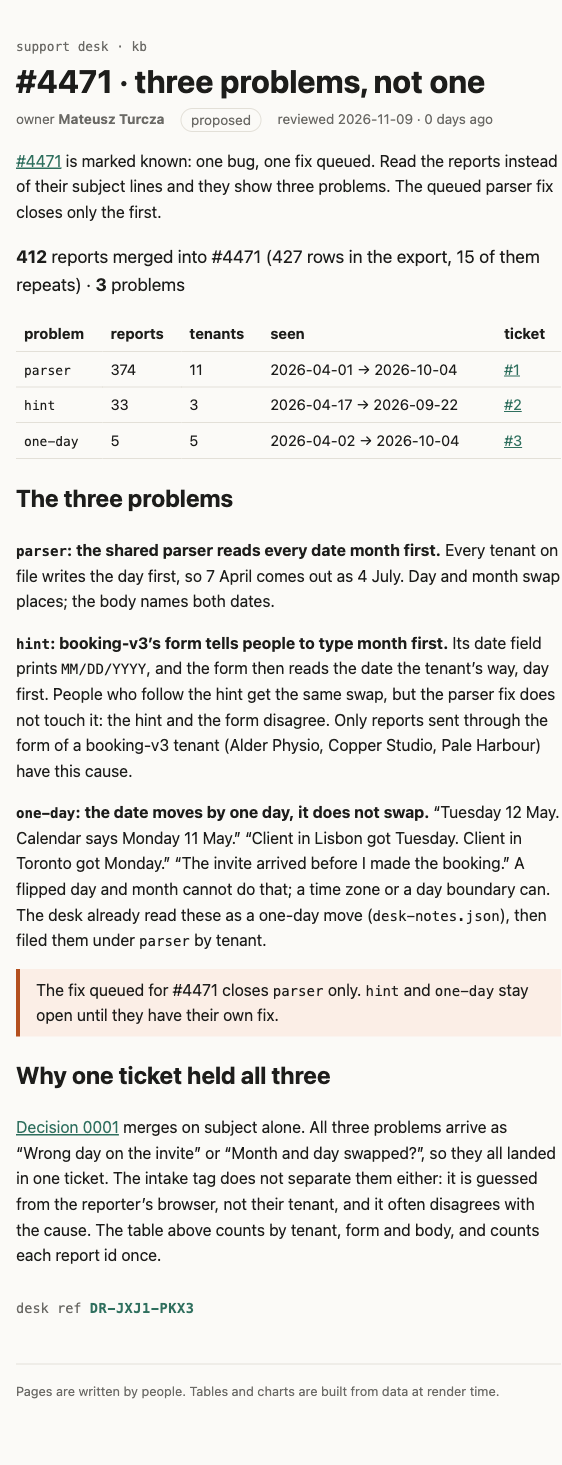
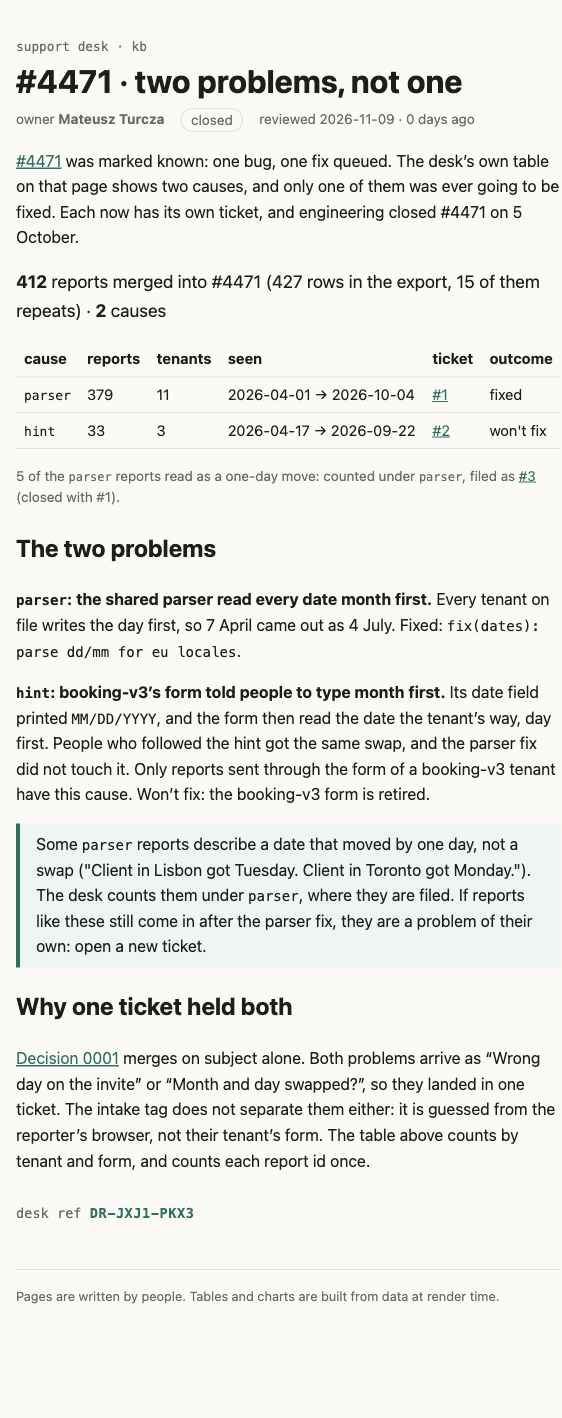
docs: Show #4471 closed with each ticket's outcome
Engineering closed #4471 on 5 October: parser fixed, hint won't fix
(booking-v3 form retired). The page now counts the desk's way, with
groupByCause(): parser 379, hint 33, the 5 one-day moves counted
under parser and footnoted. Drops problemOf() from causes.ts, which
nothing uses any more.

diff --git a/rendered/kb-incidents-4471-problems.html b/rendered/kb-incidents-4471-problems.html
@@ -17,28 +17,26 @@
 		
 		
 		
-		<!--e2jw2j--><!----><title>#4471 · three problems, not one · support kb</title>
+		<!--e2jw2j--><!----><title>#4471 · two problems, not one · support kb</title>
 		<style>:root{--bg:#fbfaf7;--fg:#1d1d1b;--muted:#6b6a66;--line:#e3e0d8;--accent:#2f6f5e;--warn:#b4501f;--warn-bg:#fbeee6;--note-bg:#eef5f2;--mono:ui-monospace, "Cascadia Code", Menlo, monospace}@media (prefers-color-scheme:dark){:root{--bg:#171716;--fg:#ecebe6;--muted:#9c9a93;--line:#34332f;--accent:#6fbfa6;--warn:#f0905d;--warn-bg:#3a2418;--note-bg:#1d2c27}}body{background:var(--bg);color:var(--fg);margin:0;font:16px/1.6 system-ui,sans-serif}.kb table{border-collapse:collapse;width:100%;margin:1rem 0;font-size:.92rem}.kb th,.kb td{border-bottom:1px solid var(--line);text-align:left;padding:.35rem .5rem}.kb code{font-family:var(--mono);font-size:.88em}.kb a{color:var(--accent)}.kb.svelte-e2jw2j{max-width:760px;margin:0 auto;padding:2rem 16px 4rem}.crumb.svelte-e2jw2j{font:.8rem var(--mono);color:var(--muted);text-decoration:none}h1.svelte-e2jw2j{margin:.25rem 0 .5rem;line-height:1.2}.meta.svelte-e2jw2j{color:var(--muted);flex-wrap:wrap;gap:.5rem 1rem;margin:0;font-size:.85rem;display:flex}.status.svelte-e2jw2j{border:1px solid var(--line);border-radius:99px;padding:0 .6rem}.stale.svelte-e2jw2j{color:var(--warn);font-weight:600}.banner.svelte-e2jw2j{background:var(--warn-bg);color:var(--warn);border-radius:6px;padding:.6rem 1rem}footer.svelte-e2jw2j{color:var(--muted);border-top:1px solid var(--line);margin-top:3rem;padding-top:1rem;font-size:.8rem}
 </style>
 		<style>aside.svelte-17bri61{border-left:4px solid var(--accent);background:var(--note-bg);margin:1rem 0;padding:.5rem 1rem}aside.warn.svelte-17bri61{border-color:var(--warn);background:var(--warn-bg)}
 </style>
-		<style>.sum.svelte-1op6c6{font-size:1.1rem}.stamp.svelte-1280m42{font:.85rem var(--mono);color:var(--muted);margin:2rem 0 0}.stamp.svelte-1280m42 b:where(.svelte-1280m42){color:var(--accent);letter-spacing:.04em}.missing.svelte-1280m42{color:var(--warn)}
+		<style>.sum.svelte-1op6c6{font-size:1.1rem}.note.svelte-1op6c6{color:var(--muted);font-size:.85em}.stamp.svelte-1280m42{font:.85rem var(--mono);color:var(--muted);margin:2rem 0 0}.stamp.svelte-1280m42 b:where(.svelte-1280m42){color:var(--accent);letter-spacing:.04em}.missing.svelte-1280m42{color:var(--warn)}
 </style>
   </head>
   <body>
-    <div><!--[--><!--[--><!--[0--><!--[--><!--[--><!--[-1--><!--[--><div class="kb svelte-e2jw2j"><header><a class="crumb svelte-e2jw2j" href="/kb">support desk · kb</a> <h1 class="svelte-e2jw2j">#4471 · three problems, not one</h1> <p class="meta svelte-e2jw2j"><span>owner <b>Mateusz Turcza</b></span> <span class="status proposed svelte-e2jw2j">proposed</span> <span class="svelte-e2jw2j">reviewed 2026-11-09 · 0 days ago</span></p></header> <!--[-1--><!--]--> <main><p><a href="/kb/incidents/4471">#4471</a> is marked known: one bug, one fix queued. Read the reports instead
-of their subject lines and they show three problems. The queued parser fix closes only the first.</p> <p class="sum svelte-1op6c6"><strong>412</strong> reports merged into #4471 (427 rows in the export, 15 of them repeats) · <strong>3</strong> problems</p> <table><thead><tr><th>problem</th><th>reports</th><th>tenants</th><th>seen</th><th>ticket</th></tr></thead><tbody><!--[--><tr><td><code>parser</code></td><td>374</td><td>11</td><td>2026-04-01 → 2026-10-04</td><td><!--[0--><a href="https://github.com/xemlock/mega-s01e03-what-it-shows/issues/1">#1</a><!--]--></td></tr><tr><td><code>hint</code></td><td>33</td><td>3</td><td>2026-04-17 → 2026-09-22</td><td><!--[0--><a href="https://github.com/xemlock/mega-s01e03-what-it-shows/issues/2">#2</a><!--]--></td></tr><tr><td><code>one-day</code></td><td>5</td><td>5</td><td>2026-04-02 → 2026-10-04</td><td><!--[0--><a href="https://github.com/xemlock/mega-s01e03-what-it-shows/issues/3">#3</a><!--]--></td></tr><!--]--></tbody></table><!----> <h2>The three problems</h2> <p><strong><code>parser</code>: the shared parser reads every date month first.</strong> Every tenant on file writes the
-day first, so 7 April comes out as 4 July. Day and month swap places; the body names both dates.</p> <p><strong><code>hint</code>: booking-v3’s form tells people to type month first.</strong> Its date field prints <code>MM/DD/YYYY</code>, and the form then reads the date the tenant’s way, day first. People who follow the
-hint get the same swap, but the parser fix does not touch it: the hint and the form disagree.
-Only reports sent through the form of a booking-v3 tenant (Alder Physio, Copper Studio, Pale
-Harbour) have this cause.</p> <p><strong><code>one-day</code>: the date moves by one day, it does not swap.</strong> “Tuesday 12 May. Calendar says
-Monday 11 May.” “Client in Lisbon got Tuesday. Client in Toronto got Monday.” “The invite arrived
-before I made the booking.” A flipped day and month cannot do that; a time zone or a day boundary
-can. The desk already read these as a one-day move (<code>desk-notes.json</code>), then filed them under <code>parser</code> by tenant.</p> <aside class="warn svelte-17bri61"><!---->The fix queued for #4471 closes <code>parser</code> only. <code>hint</code> and <code>one-day</code> stay open until they have their own fix.<!----></aside><!----> <h2>Why one ticket held all three</h2> <p><a href="/kb/decisions/0001-dedupe-by-subject">Decision 0001</a> merges on subject alone. All three
-problems arrive as “Wrong day on the invite” or “Month and day swapped?”, so they all landed in one
-ticket. The intake tag does not separate them either: it is guessed from the reporter’s browser,
-not their tenant, and it often disagrees with the cause. The table above counts by tenant, form and
-body, and counts each report id once.</p> <!--[0--><p class="stamp svelte-1280m42">desk ref <b class="svelte-1280m42">DR-JXJ1-PKX3</b></p><!--]--><!----><!----></main> <footer class="svelte-e2jw2j">Pages are written by people. Tables and charts are built from data at render time.</footer></div><!--]--><!--]--><!--]--><!----><!--]--><!--]--><!--]--><!----> <!--[-1--><!--]--><!--]-->
+    <div><!--[--><!--[--><!--[0--><!--[--><!--[--><!--[-1--><!--[--><div class="kb svelte-e2jw2j"><header><a class="crumb svelte-e2jw2j" href="/kb">support desk · kb</a> <h1 class="svelte-e2jw2j">#4471 · two problems, not one</h1> <p class="meta svelte-e2jw2j"><span>owner <b>Mateusz Turcza</b></span> <span class="status closed svelte-e2jw2j">closed</span> <span class="svelte-e2jw2j">reviewed 2026-11-09 · 0 days ago</span></p></header> <!--[-1--><!--]--> <main><p><a href="/kb/incidents/4471">#4471</a> was marked known: one bug, one fix queued. The desk’s own table on
+that page shows two causes, and only one of them was ever going to be fixed. Each now has its
+own ticket, and engineering closed #4471 on 5 October.</p> <p class="sum svelte-1op6c6"><strong>412</strong> reports merged into #4471 (427 rows in the export, 15 of them repeats) · <strong>2</strong> causes</p> <table><thead><tr><th>cause</th><th>reports</th><th>tenants</th><th>seen</th><th>ticket</th><th>outcome</th></tr></thead><tbody><!--[--><tr><td><code>parser</code></td><td>379</td><td>11</td><td>2026-04-01 → 2026-10-04</td><td><!--[0--><a href="https://github.com/xemlock/mega-s01e03-what-it-shows/issues/1">#1</a><!--]--></td><td>fixed</td></tr><tr><td><code>hint</code></td><td>33</td><td>3</td><td>2026-04-17 → 2026-09-22</td><td><!--[0--><a href="https://github.com/xemlock/mega-s01e03-what-it-shows/issues/2">#2</a><!--]--></td><td>won't fix</td></tr><!--]--></tbody></table> <!--[--><!--[0--><p class="note svelte-1op6c6">5 of the <code>parser</code> reports read as a one-day move: counted under <code>parser</code>, filed <!--[0-->as <a href="https://github.com/xemlock/mega-s01e03-what-it-shows/issues/3">#3</a> (closed with #1)<!--]-->.</p><!--]--><!--[-1--><!--]--><!--]--><!----> <h2>The two problems</h2> <p><strong><code>parser</code>: the shared parser read every date month first.</strong> Every tenant on file writes the
+day first, so 7 April came out as 4 July. Fixed: <code>fix(dates): parse dd/mm for eu locales</code>.</p> <p><strong><code>hint</code>: booking-v3’s form told people to type month first.</strong> Its date field printed <code>MM/DD/YYYY</code>, and the form then read the date the tenant’s way, day first. People who followed
+the hint got the same swap, and the parser fix did not touch it. Only reports sent through the
+form of a booking-v3 tenant have this cause. Won’t fix: the booking-v3 form is retired.</p> <aside class="note svelte-17bri61"><!---->Some <code>parser</code> reports describe a date that moved by one day, not a swap ("Client in
+Lisbon got Tuesday. Client in Toronto got Monday."). The desk counts them under <code>parser</code>, where they are filed. If reports like these still come in after the parser
+fix, they are a problem of their own: open a new ticket.<!----></aside><!----> <h2>Why one ticket held both</h2> <p><a href="/kb/decisions/0001-dedupe-by-subject">Decision 0001</a> merges on subject alone. Both problems
+arrive as “Wrong day on the invite” or “Month and day swapped?”, so they landed in one ticket.
+The intake tag does not separate them either: it is guessed from the reporter’s browser, not
+their tenant’s form. The table above counts by tenant and form, and counts each report id once.</p> <!--[0--><p class="stamp svelte-1280m42">desk ref <b class="svelte-1280m42">DR-JXJ1-PKX3</b></p><!--]--><!----><!----></main> <footer class="svelte-e2jw2j">Pages are written by people. Tables and charts are built from data at render time.</footer></div><!--]--><!--]--><!--]--><!----><!--]--><!--]--><!--]--><!----> <!--[-1--><!--]--><!--]-->
 			
 			
 		</div>

diff --git a/src/lib/kb/ProblemTable.svelte b/src/lib/kb/ProblemTable.svelte
@@ -1,43 +1,52 @@
 <script lang="ts">
   import reports from '#lib/data/reports-4471.json';
   import notes from '#lib/data/desk-notes.json';
-  import { problemOf, uniqueById, type Problem, type Report } from '#lib/kb/causes';
+  import { groupByCause, readAs, uniqueById, type Cause, type Report } from '#lib/kb/causes';
   import { tenantOf } from '#lib/kb/locales';
 
-  let { ticket, issues }: { ticket: number; issues: Partial<Record<Problem, string>> } = $props();
+  type Ticket = { url: string; outcome: string };
+  let { ticket, tickets, oneDay }: { ticket: number; tickets: Partial<Record<Cause, Ticket>>; oneDay?: Ticket } = $props();
 
-  const rows = $derived(uniqueById(reports as Report[]).length);
-  const merged = $derived(uniqueById(reports as Report[]).filter((r) => r.mergedInto === ticket));
-  const groups = $derived(
-    Object.entries(Object.groupBy(merged, (r) => problemOf(r, tenantOf(r), notes.oneDayMove)))
-      .map(([problem, rs]) => {
-        const days = rs!.map((r) => r.receivedAt.slice(0, 10)).sort();
-        return { problem: problem as Problem, count: rs!.length, tenants: new Set(rs!.map((r) => r.tenant)).size, first: days[0], last: days.at(-1) };
-      })
-      .sort((a, b) => b.count - a.count),
-  );
+  const all = reports as Report[];
+  const merged = $derived(uniqueById(all).filter((r) => r.mergedInto === ticket));
+  // Counted the desk's way: by tenant and form, a report the desk read differently stays where it is filed.
+  const groups = $derived(groupByCause(merged, tenantOf));
+  const num = (url: string) => url.replace(/^.*\/issues\//, '#');
 </script>
 
 <p class="sum">
-  <strong>{merged.length}</strong> reports merged into #{ticket} ({(reports as Report[]).length} rows in the export, {(reports as Report[]).length - rows} of them repeats) ·
-  <strong>{groups.length}</strong> problems
+  <strong>{merged.length}</strong> reports merged into #{ticket} ({all.length} rows in the export, {all.length - uniqueById(all).length} of them repeats) ·
+  <strong>{groups.length}</strong> causes
 </p>
 
 <table>
-  <thead><tr><th>problem</th><th>reports</th><th>tenants</th><th>seen</th><th>ticket</th></tr></thead>
+  <thead><tr><th>cause</th><th>reports</th><th>tenants</th><th>seen</th><th>ticket</th><th>outcome</th></tr></thead>
   <tbody>
-    {#each groups as g (g.problem)}
+    {#each groups as g (g.cause)}
+      {@const t = g.cause === 'unplaced' ? undefined : tickets[g.cause]}
       <tr>
-        <td><code>{g.problem}</code></td>
-        <td>{g.count}</td>
+        <td><code>{g.cause}</code></td>
+        <td>{g.reports.length}</td>
         <td>{g.tenants}</td>
-        <td>{g.first} → {g.last}</td>
-        <td>{#if issues[g.problem]}<a href={issues[g.problem]}>{issues[g.problem]?.replace(/^.*\/issues\//, '#')}</a>{:else}none yet{/if}</td>
+        <td>{g.firstSeen} → {g.lastSeen}</td>
+        <td>{#if t}<a href={t.url}>{num(t.url)}</a>{:else}none{/if}</td>
+        <td>{t?.outcome ?? ''}</td>
       </tr>
     {/each}
   </tbody>
 </table>
 
+{#each groups as g (g.cause)}
+  {@const moved = readAs(g, notes.oneDayMove)}
+  {#if moved}
+    <p class="note">
+      {moved} of the <code>{g.cause}</code> reports read as a one-day move: counted under <code>{g.cause}</code>, filed
+      {#if oneDay}as <a href={oneDay.url}>{num(oneDay.url)}</a> ({oneDay.outcome}){/if}.
+    </p>
+  {/if}
+{/each}
+
 <style>
   .sum { font-size: 1.1rem; }
+  .note { color: var(--muted); font-size: 0.85em; }
 </style>

diff --git a/src/lib/kb/causes.ts b/src/lib/kb/causes.ts
@@ -95,11 +95,3 @@ export function ticketCause(groups: CauseGroup[], ticket: number): CauseGroup['c
 export function readAs(g: CauseGroup, ids: readonly string[]): number {
   return g.reports.filter((r) => ids.includes(r.id)).length;
 }
-
-// What a report shows. A report the desk read as a one-day move (desk-notes.json) is not a flipped
-// date at all: the day moved by one, so neither `parser` nor `hint` explains it.
-export type Problem = Cause | 'one-day' | 'unplaced';
-
-export function problemOf(r: Report, t: Tenant | undefined, oneDayMove: readonly string[]): Problem {
-  return oneDayMove.includes(r.id) ? 'one-day' : (causeOf(r, t) ?? 'unplaced');
-}
